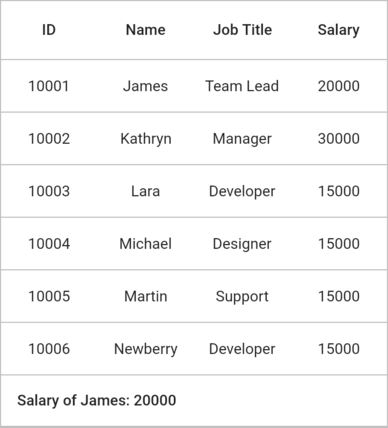
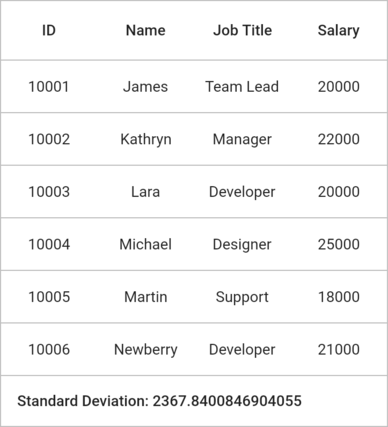
FLUT-5431-[feature][flutter]: Updated the review corrections.

diff --git a/Flutter/datagrid/summaries.md b/Flutter/datagrid/summaries.md
@@ -9,11 +9,11 @@ documentation: ug
 
 # Summaries in Flutter DataGrid (SfDataGrid)
 
-## Table summaries
+## Table summary
 
-The `SfDataGrid` provides built-in support to display concise information about the `DataGridSource.rows` by using table summary rows. The table summary value is calculated based on all the data grid rows in the `DataGridSource.rows` property. You can add a table summary row to the data grid by adding the `GridTableSummaryRow` to the `SfDataGrid.tableSummaryRows` collection. 
+The `SfDataGrid` provides built-in support to display concise information about the rows by using table summary rows. The table summary value is calculated based on all the rows in the `DataGridSource.rows` property. You can add a table summary row to the datagrid by adding the `GridTableSummaryRow` to the `SfDataGrid.tableSummaryRows` collection.
 
-The calculated summary value will be passed as a parameter to the `DataGridSource.buildTableSummaryCellWidget` method. You have to set a widget for the table summary column by overriding the `DataGridSource.buildTableSummaryCellWidget`.
+DataGrid does not automatically display the summary values. To display the summary value, you need to override the `buildTableSummaryCellWidget` method in the `DataGridSource` class. The calculated summary value is passed as a parameter to the `DataGridSource.buildTableSummaryCellWidget` method. So, you need to return the required widget with the summary value.
 
 ### Display table summary for row
 
@@ -129,7 +129,7 @@ class EmployeeDataSource extends DataGridSource {
 
 The summary information can be displayed in a column by setting the `GridTableSummaryRow.showSummaryInRow` property to `false`. You can define summary columns to the `GridTableSummaryRow` by adding `GridSummaryColumn` to the `GridTableSummaryRow.summaryColumns` collection. The `GridSummaryColumn` contains the following required properties,
 
-* **`name`**: Defines name of the `GridSummaryColumn` to denote the `GridSummaryColumn` in `GridTableSummaryRow` with title.
+* **`name`**: Defines the corresponding column name for the summary calculation. This should be the same value as the `GridColumn.columnName` property.
 * **`columnName`**: Defines the corresponding column name for the summary calculation.
 * **`summaryType`**: Defines the summary calculation type.
 
@@ -240,7 +240,7 @@ class EmployeeDataSource extends DataGridSource {
 
 ### Positioning table summary row
 
-The `SfDataGrid` provides the support to show the table summary row at either top or bottom position by using the `GridTableSummaryRow.position` property.
+The table summary row can be shown at either top or bottom position by using the `GridTableSummaryRow.position` property.
 
 {% tabs %}
 {% highlight Dart %}
@@ -359,17 +359,17 @@ class EmployeeDataSource extends DataGridSource {
 
 ### Summary calculation types
 
-The summary calculation of the `GridSummaryColumn` can be calculated by the following summary types,
+The following calculation types are supported for the summary calculation,
 
-* **`Sum`**: Defines the sum of the specific summary column.
-* **`Average`**: Defines the average of the summary column. 
-* **`Count`**: Defines the count of rows available in `SfDataGrid`.
-* **`Maximum`**:  Defines the maximum value of the specific summary column.
-* **`Minimum`**:  Defines the minimum value of the specific summary column.
+* **`Sum`**: Calculate the sum of a column
+* **`Average`**: Calculate the average of a column.
+* **`Count`**:  Calculate the total of rows in `SfDataGrid`.
+* **`Maximum`**:  Calculate the maximum value in a column.
+* **`Minimum`**: Calculate the minimum value in a column.
 
 ### Display table summary row with title
 
-`SfDataGrid` supports to display column's summary along with the title simultaneously. You can display column summary along with title by defining the `GridTableSummaryRow.title` and `GridTableSummaryRow.titleColumnCount` property along with define summary columns. Showing column summary with the title can be supported only if the `GridSummaryRow.showSummaryInRow` is `false`. The `GridTableSummaryRow.titleColumnCount` property defines that how long the title should be spanned in the corresponding summary row.
+SfDataGrid supports to display column's summary value along with the title by defining the `GridTableSummaryRow.title` and `GridTableSummaryRow.titleColumnCount` property along with the summary columns. Showing column summary with the title can be supported only if the `GridSummaryRow.showSummaryInRow` is `false`. The `GridTableSummaryRow.titleColumnCount` property defines that how long the title should be spanned in the corresponding summary row.
 
 {% tabs %}
 {% highlight Dart %}
@@ -482,16 +482,9 @@ class EmployeeDataSource extends DataGridSource {
 
 ![flutter datagrid shows table summary column along with title](images/summaries/flutter-datagrid-summary-column-with-title.png)
 
-### Limitations
-
-Following limitations are applicable if displaying column summary along with title simultaneously in `GridTableSummaryRow`:
-
-* If `SfDataGrid.frozenColumnsCount` is defined lesser than `GridTableSummaryRow.titleColumnCount`, the title summary will be spanned to `frozenColumnsCount` range, since spanned range and frozen range cannot be vary.
-* Summary columns defined in the `GridSummaryRow.titleColumnCount` range will not be shown.
-
 ### Set background color for the table summary row
 
-The `GridTableSummaryRow` color can be customized by using the `GridTableSummaryRow.color` property.
+The background color of the table summary row can be customized by using the `GridTableSummaryRow.color` property.
 
 {% tabs %}
 {% highlight Dart %}
@@ -612,60 +605,60 @@ The following example demonstrates how to customize the summary calculation to f
 {% tabs %}
 {% highlight Dart %}
 
-  @override
-  Widget build(BuildContext context) {
-    return Scaffold(
-      appBar: AppBar(
-        title: const Text('Syncfusion Flutter DataGrid'),
-      ),
-      body: SfDataGrid(
-        source: employeeDataSource,
-        tableSummaryRows: [
-          GridTableSummaryRow(
-              showSummaryInRow: true,
-              title: 'Salary of James: {Salary}',
-              columns: [
-                GridSummaryColumn(
-                    name: 'Salary',
-                    columnName: 'salary',
-                    summaryType: GridSummaryType.sum)
-              ],
-              position: GridTableSummaryRowPosition.bottom),
-        ],
-        columns: <GridColumn>[
-          GridColumn(
-              columnName: 'id',
-              label: Container(
-                  padding: EdgeInsets.all(16.0),
-                  alignment: Alignment.center,
-                  child: Text(
-                    'ID',
-                  ))),
-          GridColumn(
-              columnName: 'name',
-              label: Container(
-                  padding: EdgeInsets.all(8.0),
-                  alignment: Alignment.center,
-                  child: Text('Name'))),
-          GridColumn(
-              columnName: 'designation',
-              label: Container(
-                  padding: EdgeInsets.all(8.0),
-                  alignment: Alignment.center,
-                  child: Text(
-                    'Job Title',
-                    overflow: TextOverflow.ellipsis,
-                  ))),
-          GridColumn(
-              columnName: 'salary',
-              label: Container(
-                  padding: EdgeInsets.all(8.0),
-                  alignment: Alignment.center,
-                  child: Text('Salary'))),
-        ],
-      ),
-    );
-  }
+@override
+Widget build(BuildContext context) {
+  return Scaffold(
+    appBar: AppBar(
+      title: const Text('Syncfusion Flutter DataGrid'),
+    ),
+    body: SfDataGrid(
+      source: employeeDataSource,
+      tableSummaryRows: [
+        GridTableSummaryRow(
+            showSummaryInRow: true,
+            title: 'Standard Deviation: {Deviation}',
+            columns: [
+              GridSummaryColumn(
+                  name: 'Deviation',
+                  columnName: 'salary',
+                  summaryType: GridSummaryType.sum)
+            ],
+            position: GridTableSummaryRowPosition.bottom),
+      ],
+      columns: <GridColumn>[
+        GridColumn(
+            columnName: 'id',
+            label: Container(
+                padding: EdgeInsets.all(16.0),
+                alignment: Alignment.center,
+                child: Text(
+                  'ID',
+                ))),
+        GridColumn(
+            columnName: 'name',
+            label: Container(
+                padding: EdgeInsets.all(8.0),
+                alignment: Alignment.center,
+                child: Text('Name'))),
+        GridColumn(
+            columnName: 'designation',
+            label: Container(
+                padding: EdgeInsets.all(8.0),
+                alignment: Alignment.center,
+                child: Text(
+                  'Job Title',
+                  overflow: TextOverflow.ellipsis,
+                ))),
+        GridColumn(
+            columnName: 'salary',
+            label: Container(
+                padding: EdgeInsets.all(8.0),
+                alignment: Alignment.center,
+                child: Text('Salary'))),
+      ],
+    ),
+  );
+}
 
 class EmployeeDataSource extends DataGridSource {
   EmployeeDataSource({required List<Employee> employeeData}) {
@@ -688,20 +681,31 @@ class EmployeeDataSource extends DataGridSource {
   @override
   String calculateSummaryValue(GridTableSummaryRow summaryRow,
       GridSummaryColumn? summaryColumn, RowColumnIndex rowColumnIndex) {
+    List<int> getCellValues(GridSummaryColumn summaryColumn) {
+      final List<int> values = <int>[];
+      for (final DataGridRow row in rows) {
+        final DataGridCell? cell = row.getCells().firstWhereOrNull(
+            (DataGridCell element) =>
+                element.columnName == summaryColumn.columnName);
+        if (cell != null && cell.value != null) {
+          values.add(cell.value);
+        }
+      }
+      return values;
+    }
+
     String? title = summaryRow.title;
     if (title != null) {
-      if (title.contains('Salary')) {
-        final DataGridRow? row = rows.firstWhereOrNull((element) => element
-            .getCells()
-            .any((element) =>
-                element.columnName == 'name' && element.value == 'James'));
-        if (row != null) {
-          final int salary = row
-              .getCells()
-              .firstWhere((element) => element.columnName == 'salary')
-              .value;
-          title = title.replaceAll('{Salary}', salary.toString());
+      if (title.contains(summaryRow.columns.first.name)) {
+        double deviation = 0;
+        final List<int> values = getCellValues(summaryRow.columns.first);
+        if (values.isNotEmpty) {
+          int sum = values.reduce((value, element) =>
+              value + pow(element - values.average, 2).toInt());
+          deviation = sqrt((sum) / (values.length - 1));
         }
+        title = title.replaceAll(
+            '{${summaryRow.columns.first.name}}', deviation.toString());
       }
     }
     return title ?? '';
